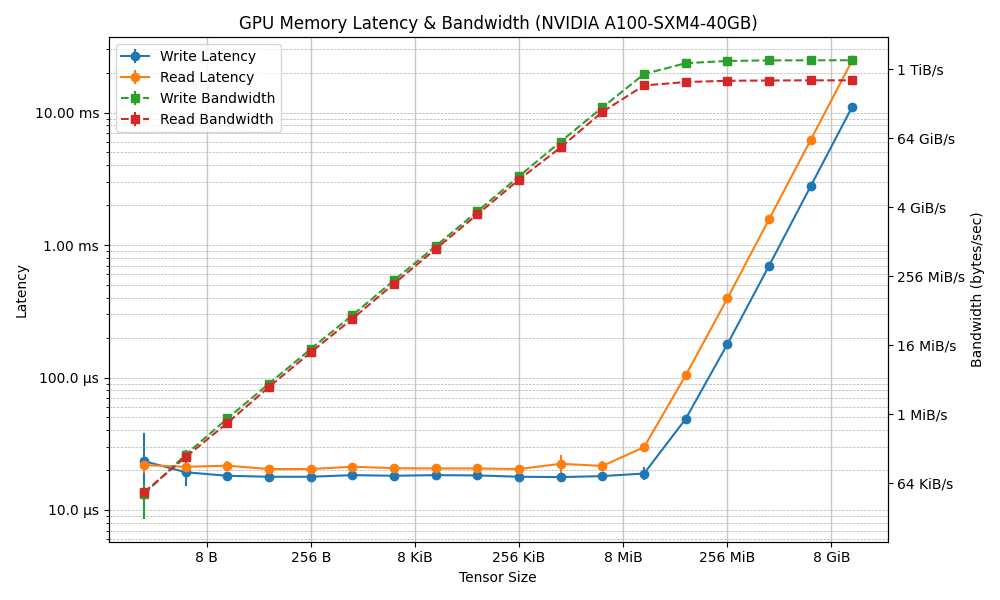
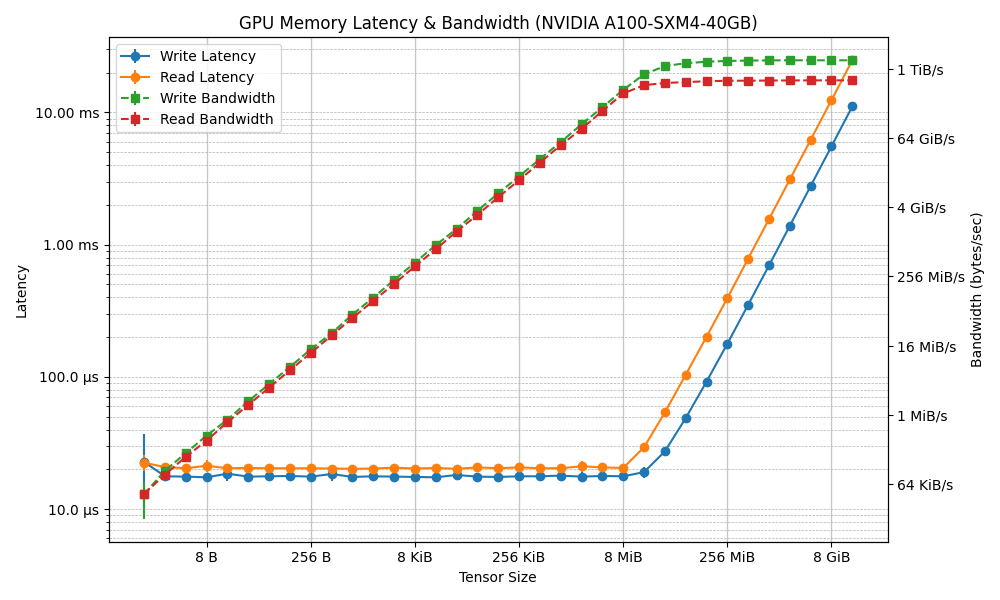
updated numbers

diff --git a/test-memory-latency-bandwidth.py b/test-memory-latency-bandwidth.py
@@ -232,7 +232,7 @@ if __name__ == "__main__":
     i = 0
     while 2**i <= max_mem_bytes:
         sizes_bytes.append(2**i)
-        i += 2
+        i += 1
 
     results = sweep_memory_latency(gpu_id=args.gpu, sizes_bytes=sizes_bytes, runs=args.runs, verbose=True)
 

diff --git a/README.md b/README.md
@@ -20,7 +20,7 @@ This project provides scripts to benchmark GPU memory latency and bandwidth usin
   - The contents of the tensor are read by copying it to another tensor (`outp_tensor.copy_(inp_tensor)`), ensuring all elements are accessed.
 
 ### Bandwidth Calculation
-- For each memory operation, bandwidth is calculated as:
+- For each memory operation, bandwidth is calculated as the reciprocal of the latency:
   - **Bandwidth (GiB/s) = Tensor Size (GiB) / Latency (s)**
 - Standard deviation is propagated from the latency measurements.
 
